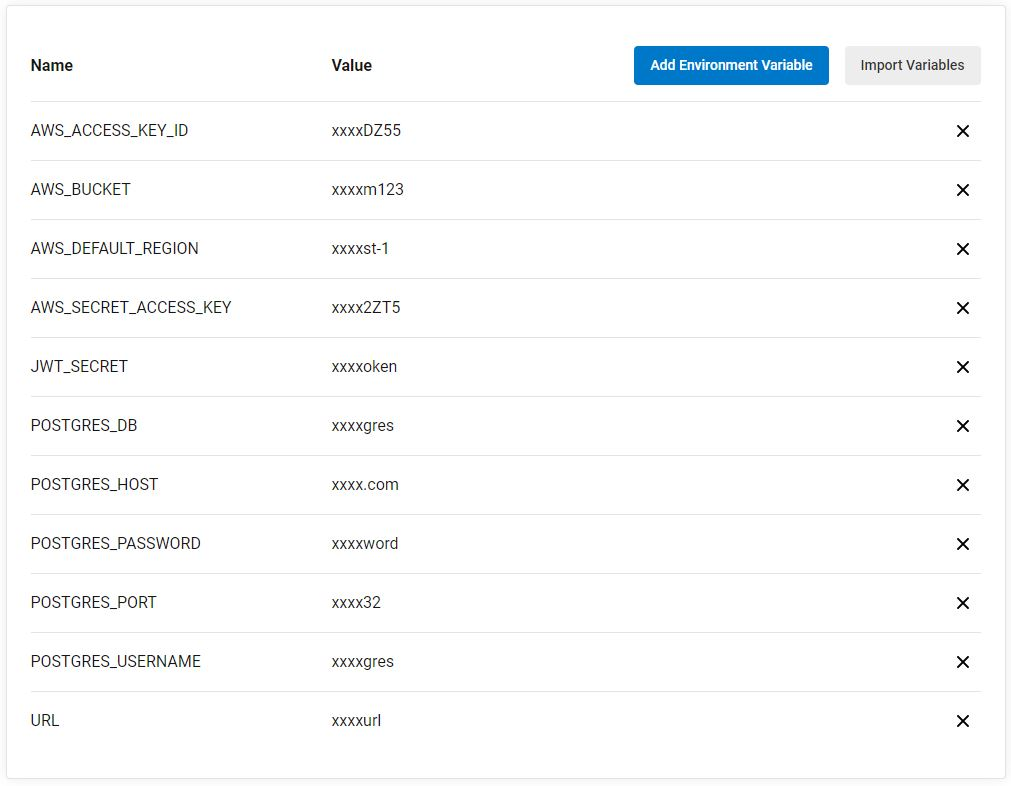
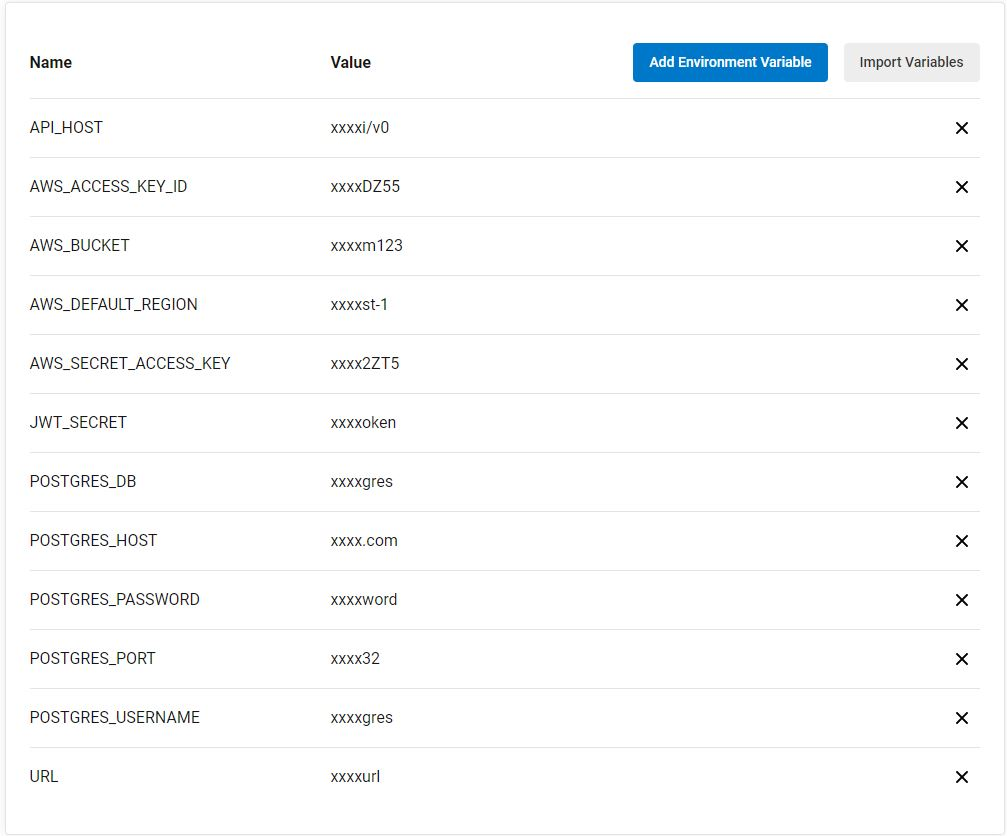
Update api_host as environment variables

diff --git a/udagram-frontend/src/environments/environment.prod.ts b/udagram-frontend/src/environments/environment.prod.ts
@@ -5,7 +5,7 @@
 export const environment = {
   production: true,
   appName: "Udagram",
-  apiHost: 'http://Udagram-env.eba-jpxypp4z.ap-southeast-1.elasticbeanstalk.com/api/v0'
+  apiHost: process.env.API_HOST
 };
 
 /*
